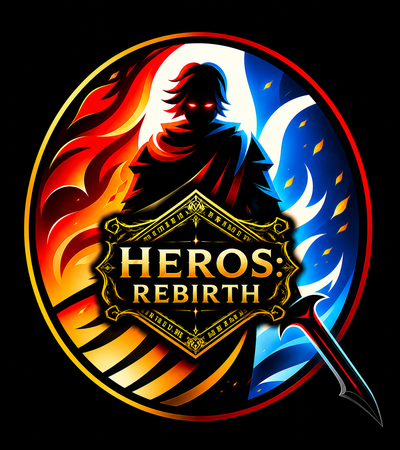
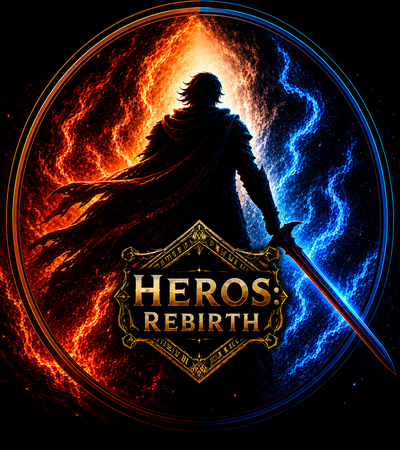
Resize patcher window to 750x600 and add green Play button when up-to-date

diff --git a/EQEmu Patcher/EQEmu Patcher/MainForm.cs b/EQEmu Patcher/EQEmu Patcher/MainForm.cs
@@ -109,12 +109,13 @@ namespace EQEmu_Patcher
 
             txtList.Visible = false;
             splashLogo.Visible = true;
-            if (this.Width < 432) {
-                this.Width = 432;
-            }
-            if (this.Height < 550)
+            if (this.Width < 750)
             {
-                this.Height = 550;
+                this.Width = 750;
+            }
+            if (this.Height < 600)
+            {
+                this.Height = 600;
             }
             buildClientVersions();
             IniLibrary.Load();
@@ -197,6 +198,7 @@ namespace EQEmu_Patcher
                 Invoke((MethodInvoker)delegate {
 
                     btnCheck.BackColor = SystemColors.Control;
+                    btnStart.BackColor = SystemColors.Control;
                     if (isPatchGoing)
                     {
                         btnCheck.Text = "Cancel";
@@ -263,8 +265,10 @@ namespace EQEmu_Patcher
                 {
                     btnCheck.BackColor = Color.Red;
                 }
-            } else
+            }
+            else
             {
+                btnStart.BackColor = Color.LimeGreen;
                 if (isAutoPlay) PlayGame();
             }
             isLoading = false;
@@ -592,6 +596,9 @@ namespace EQEmu_Patcher
             StatusLibrary.Log($"Complete! Patched {generateSize(patchedBytes)} in {elapsed} seconds. Press Play to begin.");
             IniLibrary.instance.LastPatchedVersion = filelist.version;
             IniLibrary.Save();
+            Invoke((MethodInvoker)delegate {
+                btnStart.BackColor = Color.LimeGreen;
+            });
             return;
         }
 

diff --git a/EQEmu Patcher/EQEmu Patcher/MainForm.Designer.cs b/EQEmu Patcher/EQEmu Patcher/MainForm.Designer.cs
@@ -130,7 +130,7 @@
             // 
             this.AutoScaleDimensions = new System.Drawing.SizeF(6F, 13F);
             this.AutoScaleMode = System.Windows.Forms.AutoScaleMode.Font;
-            this.ClientSize = new System.Drawing.Size(416, 572);
+            this.ClientSize = new System.Drawing.Size(750, 600);
             this.Controls.Add(this.chkAutoPatch);
             this.Controls.Add(this.chkAutoPlay);
             this.Controls.Add(this.txtList);
@@ -140,7 +140,7 @@
             this.Controls.Add(this.progressBar);
             this.Icon = ((System.Drawing.Icon)(resources.GetObject("$this.Icon")));
             this.MaximizeBox = false;
-            this.MinimumSize = new System.Drawing.Size(305, 371);
+            this.MinimumSize = new System.Drawing.Size(750, 600);
             this.Name = "MainForm";
             this.StartPosition = System.Windows.Forms.FormStartPosition.CenterScreen;
             this.Text = "EQEmu Patcher";